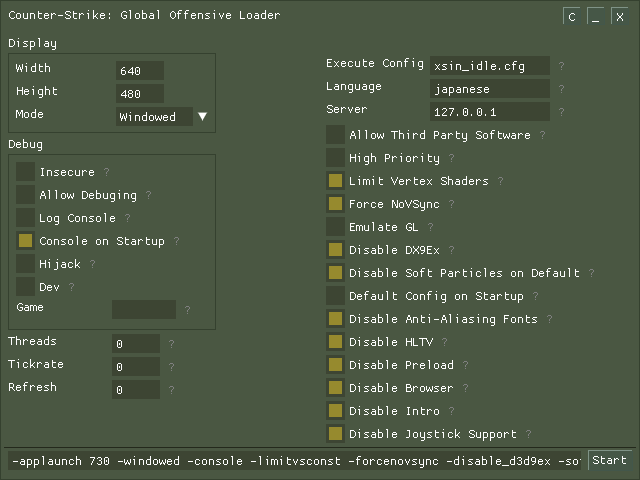
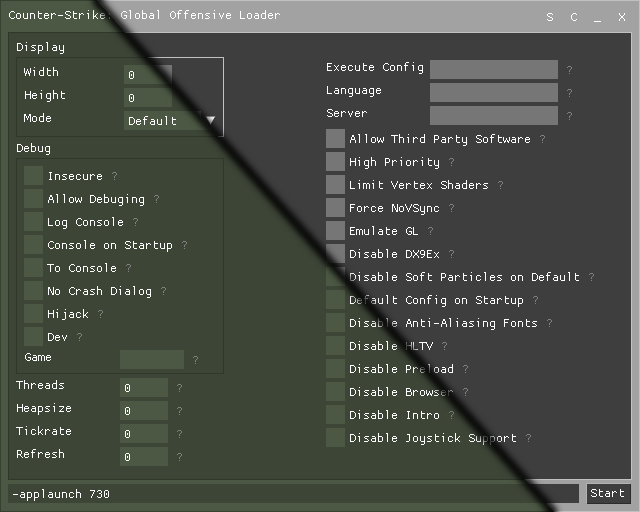
another fix/tweak

diff --git a/Source/GUI.cpp b/Source/GUI.cpp
@@ -95,6 +95,12 @@ void GUI::windowVisibility(int mode) noexcept {
 	ShowWindow(window, mode);
 }
 
+void updateStyle() {
+	if (cfg->guiStyle)
+		ImGui::StyleColorsSourceVGUI();
+	else
+		ImGui::StyleColorsGoldSourceVGUI();
+}
 
 void GUI::CreateHWindow(const char* windowName) noexcept
 {
@@ -201,10 +207,7 @@ void GUI::CreateImGui() noexcept
 
 	io.IniFilename = NULL;
 
-	if(cfg->guiStyle)
-		ImGui::StyleColorsSourceVGUI();
-	else
-		ImGui::StyleColorsGoldSourceVGUI();
+	updateStyle();
 
 	ImGui_ImplWin32_Init(window);
 	ImGui_ImplDX9_Init(device);
@@ -316,8 +319,11 @@ void GUI::Render() noexcept
 		static std::string notExist = "";
 		static bool exist = true;
 		ImGui::PushStyleColor(ImGuiCol_FrameBg, ImGui::GetColorU32(ImGuiCol_ChildBg));
+		if(cfg->guiStyle)
+			ImGui::PushStyleColor(ImGuiCol_TextSelectedBg, ImVec4(0.463f, 0.463f, 0.463f, 1.f));
+		ImGui::SetNextItemWidth(223.f);
 		ImGui::InputText("", &configID);
-		ImGui::PopStyleColor();
+		ImGui::PopStyleColor(cfg->guiStyle ? 2 : 1);
 		if (!exist) {
 			ImGui::TextWrapped("%s config doesn't exist", notExist.c_str());
 		}
@@ -329,6 +335,7 @@ void GUI::Render() noexcept
 		if (ImGui::Button("Load")) {
 			if (std::ifstream file(configID); file.good()) {
 				cfg->Load(configID);
+				updateStyle();
 				exist = true;
 				ImGui::CloseCurrentPopup();
 			} else {
@@ -623,8 +630,11 @@ void GUI::Render() noexcept
 
 	ImGui::SetNextItemWidth(width - static_cast<int>(ImGui::CalcTextSize(buttonText.c_str()).x) - 34.f);
 	ImGui::PushStyleColor(ImGuiCol_FrameBg, ImGui::GetColorU32(ImGuiCol_ChildBg));
+	if (cfg->guiStyle)
+		ImGui::PushStyleColor(ImGuiCol_TextSelectedBg, ImVec4(0.463f, 0.463f, 0.463f, 1.f));
+
 	ImGui::InputText("##output", &global->gameArgs, ImGuiInputTextFlags_ReadOnly);
-	ImGui::PopStyleColor();
+	ImGui::PopStyleColor(cfg->guiStyle ? 2 : 1);
 	sameLine
 	if (isSteamRunning() || FindWindowW(L"Valve001", nullptr)) {
 		ImGui::BeginDisabled();

diff --git a/Lib/imgui/imgui_draw.cpp b/Lib/imgui/imgui_draw.cpp
@@ -277,7 +277,7 @@ void ImGui::StyleColorsSourceVGUI(ImGuiStyle* dst) {
     colors[ImGuiCol_Separator] = ImVec4(.17f, 0.17f, 0.17, 1.f);
     colors[ImGuiCol_SliderGrabActive] = ImVec4(0.424f, 0.424f, 0.424f, 1.f);
     colors[ImGuiCol_SliderGrab] = ImVec4(0.424f, 0.424f, 0.424f, 1.f);
-    colors[ImGuiCol_TextSelectedBg] = ImVec4(0.463f, 0.463f, 0.463f, 1.f);
+    colors[ImGuiCol_TextSelectedBg] = ImVec4(0.243f, 0.243f, 0.243f, 1.00f);
     colors[ImGuiCol_PopupBg] = ImVec4(0.635f, 0.635f, 0.635f, 1.f);
     colors[ImGuiCol_CustomButtonOne] = ImVec4(0.17f, 0.17f, 0.17f, 1.f);
     colors[ImGuiCol_CustomButtonTwo] = ImVec4(0.7f, 0.7f, 0.7f, 1.f);
